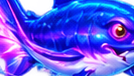
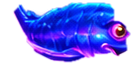
fix(fishing): 鱼 / Boss / 炮台精灵重新去底（GrabCut + 色相键控），非中文技能名改为实底小牌；fishing-shot 支持 LOCALE/SIZE
Claude-Session: https://claude.ai/code/session_01B1WvqstoyBjnn1K2cTp3bs

diff --git a/apps/client-game/src/games/fishing/FishingView.vue b/apps/client-game/src/games/fishing/FishingView.vue
@@ -1037,19 +1037,21 @@ onBeforeUnmount(() => {
 </script>
 
 <style scoped>
+/* 非中文：用实底小牌盖住图标上烙的中文，显示程序文字 */
 .sk-name {
   position: absolute;
   left: 50%;
-  bottom: 24%;
+  bottom: 21%;
   transform: translateX(-50%);
-  font-size: 11px;
+  padding: 1px 6px;
+  border-radius: 6px;
+  background: rgba(8, 12, 26, 0.94);
+  border: 1px solid rgba(255, 226, 138, 0.55);
+  font-size: 10px;
   font-weight: 900;
-  color: #fff3c4;
+  line-height: 1.3;
+  color: #ffe9a6;
   white-space: nowrap;
-  text-shadow:
-    0 0 2px #000,
-    0 0 3px #000,
-    0 1px 2px #000;
   pointer-events: none;
 }
 .fs-root {

diff --git a/CHANGELOG.md b/CHANGELOG.md
@@ -93,7 +93,9 @@
   各游戏对手资金池映射 `GAME_POOL`；轮盘与股票宿主全部改经该服务过账（水果机 / 捕鱼 / 牌桌沿用同一钱包原语与 key 规范）
 - 后台：`GET /api/admin/v1/arcade/jackpots`（四档奖池 + 最近命中）、`/arcade/roulette/rounds`、`/arcade/stock/rounds`（含按 roundId 查注单）；
   仪表盘在线人数与今日回合统计加入轮盘 / 股票 / 水果机（`arcadeToday`）；后台前端新增「街机 / 奖池」页
-- 捕鱼技能图标（烙中文）在非中文环境叠加程序文字名称
+- 捕鱼技能图标（烙中文）在非中文环境用实底小牌叠加程序文字名称
+- 捕鱼精灵去底：鱼 / Boss / 炮台原切片带有素材表的水面 / 白底（Boss 在场上显示为矩形），
+  用 OpenCV GrabCut（蓝色鱼 / Boss / 炮台）与色相键控（暖色鱼）重新去底并羽化，原图备份于 scratchpad
 - 全量回归：game-common 单测 59 / api · game · client · admin 类型检查 / E2E 55 / UI 冒烟 10 / 后台冒烟 7
 - 测试：E2E 新增 10 项（进桌 / 扣款 / 幂等 / 非法号 / 超额 / 锁盘开奖 / 开奖后拒投 / 派彩一致 / 余额一致 / 历史），合计 43；
   新增 `tests/roulette-shot.mjs`；UI 冒烟 +1（9 项）；`docs/05-game-rules/roulette-architecture.md`
